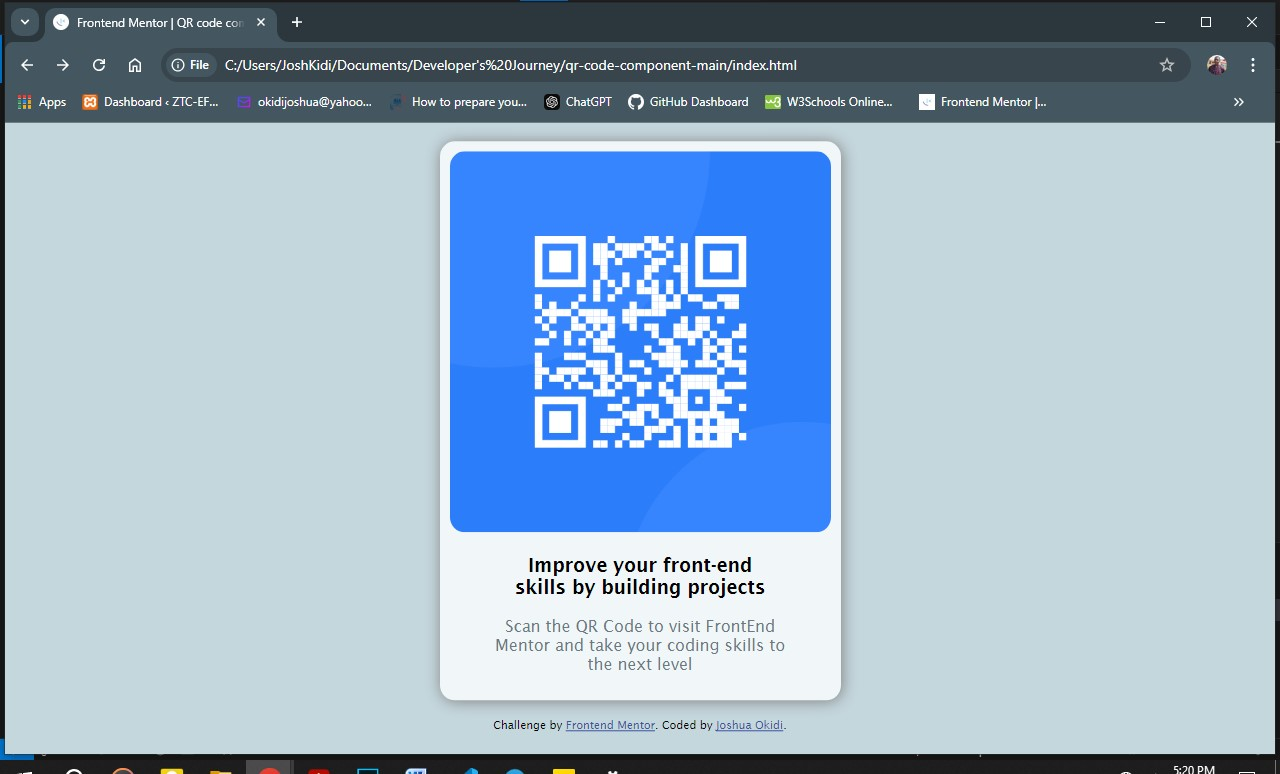
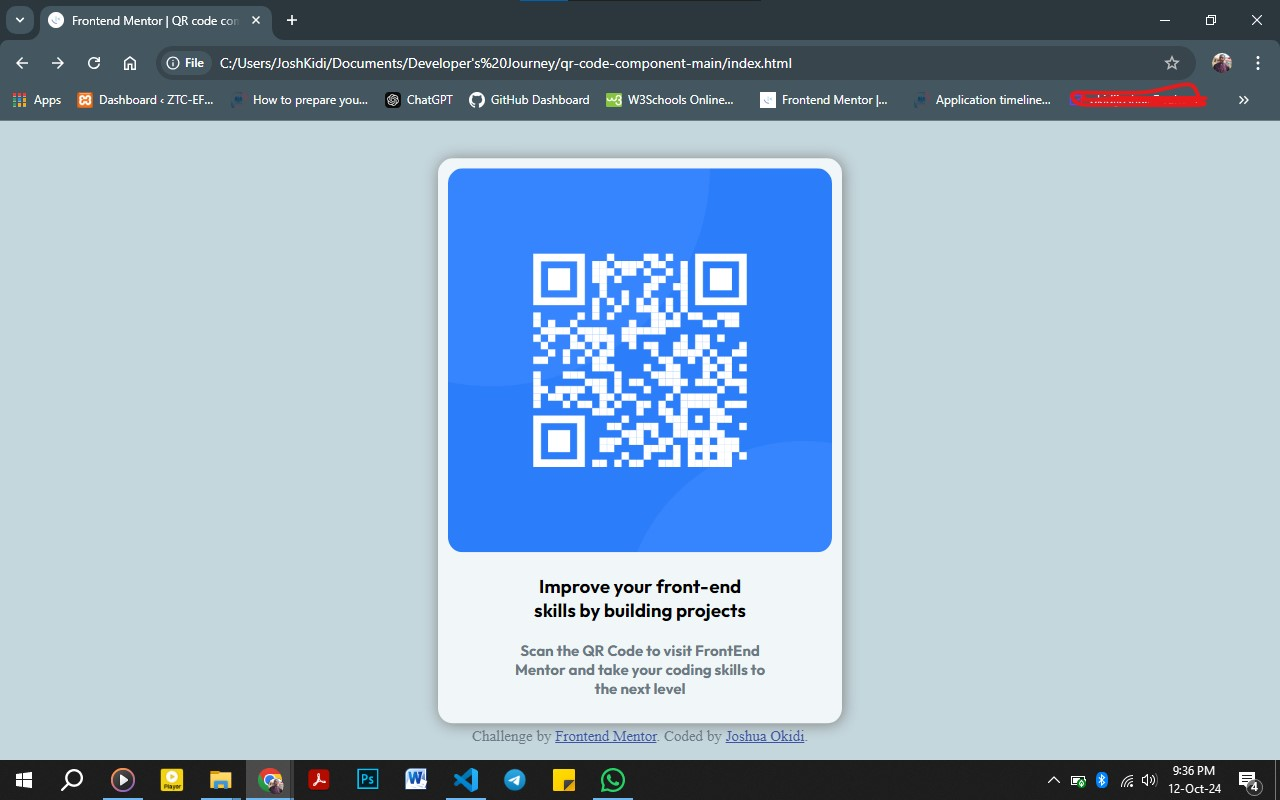
Latest Update

diff --git a/index.html b/index.html
@@ -19,10 +19,11 @@
       <p class="outfit-forText">Scan the QR Code to visit FrontEnd <br> Mentor and take your coding skills to <br> the next level</p>
   </div>
   <br>
-  <div class="attribution">
-    Challenge by <a href="https://www.frontendmentor.io?ref=challenge" target="_blank">Frontend Mentor</a>. 
-    Coded by <a href="#">Joshua Okidi</a>.
-  </div>
+  <footer class="attribution" style="position: relative">
+    <p style="position: fixed; bottom: 0; width:100%; text-align: center"> Challenge by <a href="https://www.frontendmentor.io?ref=challenge" target="_blank">Frontend Mentor</a>. 
+      Coded by <a href="#">Joshua Okidi</a>.
+    </p>
+  </footer>
   <br>
 </body>
 </html>

diff --git a/style.css b/style.css
@@ -36,8 +36,5 @@ p {
     font-weight:400;
     color: rgb(107, 120, 133);
 }
-.attribution {
-    clear: both;
-
-    font-size: 11px;}
+.attribution { font-size: 11px;}
 .attribution a { color: hsl(228, 45%, 44%); }

diff --git a/README.md b/README.md
@@ -1,87 +1,112 @@
-# Frontend Mentor - QR code component
+# Frontend Mentor - QR code component solution
 
-![Design preview for the QR code component coding challenge](./preview.jpg)
+This is a solution to the [QR code component challenge on Frontend Mentor](https://www.frontendmentor.io/challenges/qr-code-component-iux_sIO_H). Frontend Mentor challenges help you improve your coding skills by building realistic projects. 
 
-## Welcome! 👋
+## Table of contents
 
-Thanks for checking out this front-end coding challenge.
+- [Overview](#overview)
+  - [Screenshot](#screenshot)
+  - [Links](#links)
+- [My process](#my-process)
+  - [Built with](#built-with)
+  - [What I learned](#what-i-learned)
+  - [Continued development](#continued-development)
+  - [Useful resources](#useful-resources)
+- [Author](#author)
+- [Acknowledgments](#acknowledgments)
 
-[Frontend Mentor](https://www.frontendmentor.io) challenges help you improve your coding skills by building realistic projects.
+**Note: Delete this note and update the table of contents based on what sections you keep.**
 
-**To do this challenge, you need a basic understanding of HTML and CSS.**
+## Overview
 
-## The challenge
+### Screenshot
+Here is the Screenshot of the desktop view on my System.
+![](./Screenshot-full.jpg)
 
-Your challenge is to build out this QR code component and get it looking as close to the design as possible.
+My Mobile view of the solution:
+![](./Screenshot-mobile.jpg)
 
-You can use any tools you like to help you complete the challenge. So if you've got something you'd like to practice, feel free to give it a go.
+**Note: Delete this note and the paragraphs above when you add your screenshot. If you prefer not to add a screenshot, feel free to remove this entire section.**
 
-Want some support on the challenge? [Join our community](https://www.frontendmentor.io/community) and ask questions in the **#help** channel.
+### Links
 
-## Where to find everything
+- Solution URL: [Add solution URL here](https://your-solution-url.com)
+- Live Site URL: [Add live site URL here](https://your-live-site-url.com)
 
-Your task is to build out the project to the designs inside the `/design` folder. You will find both a mobile and a desktop version of the design. 
+## My process
+-Steps I took;
+  - Built the Structure and included the image
+  - Styled the html structure using CSS
+  - It was really difficult for me to centralize the QR code and it's surrounding box.
+  - Similarly, a very tough phase I went through was how to make the QR Image shrink alongside the Box.
+  - From w3schools, under CSS shadow effects, I was able to add shadow box to my div.
+  - 
 
-The designs are in JPG static format. Using JPGs will mean that you'll need to use your best judgment for styles such as `font-size`, `padding` and `margin`. 
+**Note: Using just HTML and CSS, how do I make this image remain in the middle with the box at different viewports? A very important thing I learnt**
+### Built with
 
-If you would like the design files (we provide Sketch & Figma versions) to inspect the design in more detail, you can [subscribe as a PRO member](https://www.frontendmentor.io/pro).
+- Semantic HTML5 markup
+- CSS custom properties
+- Flexbox
+- CSS Grid
 
-You will find all the required assets in the `/images` folder. The assets are already optimized.
+### What I learned
 
-There is also a `style-guide.md` file containing the information you'll need, such as color palette and fonts.
+Use this section to recap over some of your major learnings while working through this project. Writing these out and providing code samples of areas you want to highlight is a great way to reinforce your own knowledge.
+I learnt on centralizing a div vertically.
+I got more familiar with how the CSS[max-width, and width] work.
+I was able to set a border around the image particularly using the third css code below.
+I made the code as minimal as possible.
 
-## Building your project
+My important code snippets below:
 
-Feel free to use any workflow that you feel comfortable with. Below is a suggested process, but do not feel like you need to follow these steps:
+```html
+<h1>Some HTML code I'm proud of</h1>
+```
+```css
+#container {
+    
+    position: absolute;
+    top: 50%;
+    left: 50%;
+    transform: translate(-50%, -50%);
+    background-color: rgb(241, 246, 248);
+    border-radius: 15px;
+    width: 30%;
+    margin: 0 auto;
+    padding: 10px;
+    box-shadow: 1px 1px 15px grey;
+    
+}
+#container img {
+  width: 100%;
+  } 
+img {
+  border-radius: 15px;
+}
+```
 
-1. Initialize your project as a public repository on [GitHub](https://github.com/). Creating a repo will make it easier to share your code with the community if you need help. If you're not sure how to do this, [have a read-through of this Try Git resource](https://try.github.io/).
-2. Configure your repository to publish your code to a web address. This will also be useful if you need some help during a challenge as you can share the URL for your project with your repo URL. There are a number of ways to do this, and we provide some recommendations below.
-3. Look through the designs to start planning out how you'll tackle the project. This step is crucial to help you think ahead for CSS classes to create reusable styles.
-4. Before adding any styles, structure your content with HTML. Writing your HTML first can help focus your attention on creating well-structured content.
-5. Write out the base styles for your project, including general content styles, such as `font-family` and `font-size`.
-6. Start adding styles to the top of the page and work down. Only move on to the next section once you're happy you've completed the area you're working on.
+### Continued development
 
-## Deploying your project
+I'd love to improve on the use of flexboxes, making the webpage more interactive and responsive on different devices.
+I look forward to integrating Javascript into the website and make it more dynamic.
 
-As mentioned above, there are many ways to host your project for free. Our recommended hosts are:
+### Useful resources
 
-- [GitHub Pages](https://pages.github.com/)
-- [Vercel](https://vercel.com/)
-- [Netlify](https://www.netlify.com/)
+- [w3Schools](https://www.w3schools.com) - This is a site I always turn to for solution.
+- [Hubspot](https://blog.hubspot.com/websit/center-div-css) - This is an amazing article which helped me finally understand how to center my QR Code container vertically. I'd recommend it to anyone still learning this concept.
+- [Codedamn](https://codedamn.com/news/frontend/how-to-center-a-div-text-and-more-with-css) - made it really easier for me to keep the entire structure and design in the middle of the webpage.
 
-You can host your site using one of these solutions or any of our other trusted providers. [Read more about our recommended and trusted hosts](https://medium.com/frontend-mentor/frontend-mentor-trusted-hosting-providers-bf000dfebe).
 
-## Create a custom `README.md`
+## Author
+- Website - [Joshua Okidi](https://www.your-site.com)
+- Frontend Mentor - [@Joshua-Okidi](https://www.frontendmentor.io/profile/joshuaokidi)
+- X - [@JoshOkidi](https://x.com/JoshOkidi)
 
-We strongly recommend overwriting this `README.md` with a custom one. We've provided a template inside the [`README-template.md`](./README-template.md) file in this starter code.
 
-The template provides a guide for what to add. A custom `README` will help you explain your project and reflect on your learnings. Please feel free to edit our template as much as you like.
+## Acknowledgments
 
-Once you've added your information to the template, delete this file and rename the `README-template.md` file to `README.md`. That will make it show up as your repository's README file.
+A big thank you to W3Schools for being my No.1 goto site for help and enquiries.
+Thank you [frontend Mentor](frontendmentor.io) for this simple but meaningful challenge. Now I identify lapses and areas to improve on.
 
-## Submitting your solution
-
-Submit your solution on the platform for the rest of the community to see. Follow our ["Complete guide to submitting solutions"](https://medium.com/frontend-mentor/a-complete-guide-to-submitting-solutions-on-frontend-mentor-ac6384162248) for tips on how to do this.
-
-Remember, if you're looking for feedback on your solution, be sure to ask questions when submitting it. The more specific and detailed you are with your questions, the higher the chance you'll get valuable feedback from the community.
-
-## Sharing your solution
-
-There are multiple places you can share your solution:
-
-1. Share your solution page in the **#finished-projects** channel of the [community](https://www.frontendmentor.io/community). 
-2. Tweet [@frontendmentor](https://twitter.com/frontendmentor) and mention **@frontendmentor**, including the repo and live URLs in the tweet. We'd love to take a look at what you've built and help share it around.
-3. Share your solution on other social channels like LinkedIn.
-4. Blog about your experience building your project. Writing about your workflow, technical choices, and talking through your code is a brilliant way to reinforce what you've learned. Great platforms to write on are [dev.to](https://dev.to/), [Hashnode](https://hashnode.com/), and [CodeNewbie](https://community.codenewbie.org/).
-
-We provide templates to help you share your solution once you've submitted it on the platform. Please do edit them and include specific questions when you're looking for feedback. 
-
-The more specific you are with your questions the more likely it is that another member of the community will give you feedback.
-
-## Got feedback for us?
-
-We love receiving feedback! We're always looking to improve our challenges and our platform. So if you have anything you'd like to mention, please email hi[at]frontendmentor[dot]io.
-
-This challenge is completely free. Please share it with anyone who will find it useful for practice.
-
-**Have fun building!** 🚀
+**Need help in writing markdown? You can visit [The Markdown Guide](https://www.markdownguide.org/) to learn more.**
